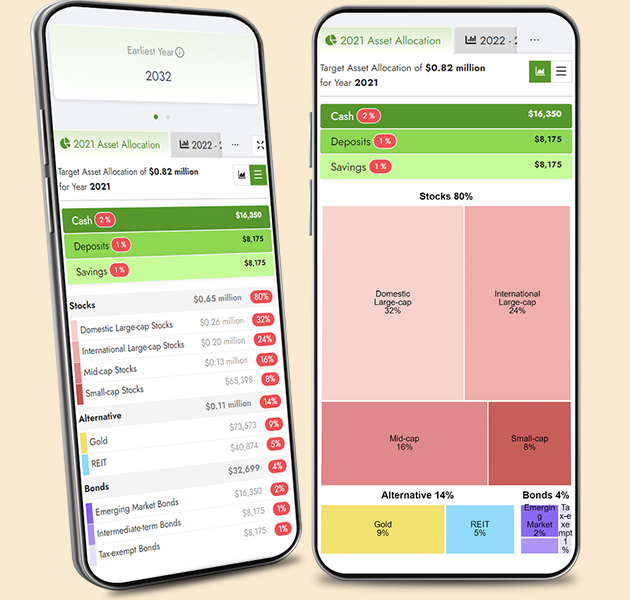
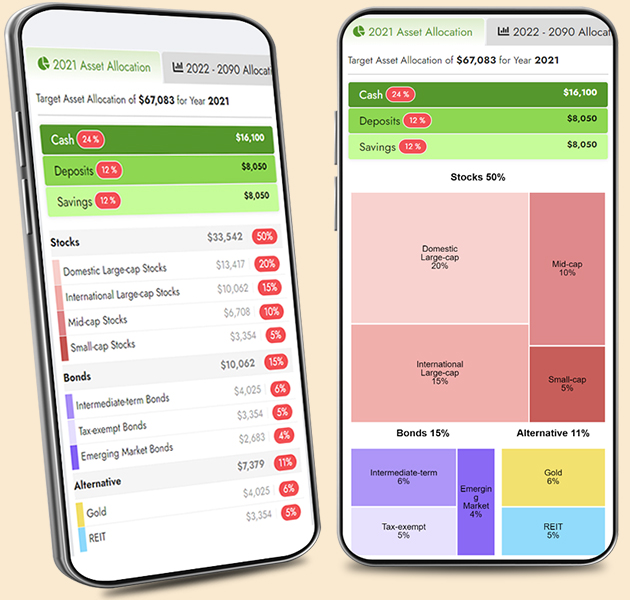
step 2 and 3 image updated

diff --git a/src/components/landing/Step.less b/src/components/landing/Step.less
@@ -39,6 +39,10 @@
 		& h2 {
 			color: #56972c;
 		}
+
+		& .ant-image {
+			padding: 35px 0;
+		}
 	}
 
 	&.step2 {
@@ -61,7 +65,7 @@
 		}
 
 		& .ant-image {
-			padding: 30px 0;
+			padding: 0;
 		}
 	}
 }
